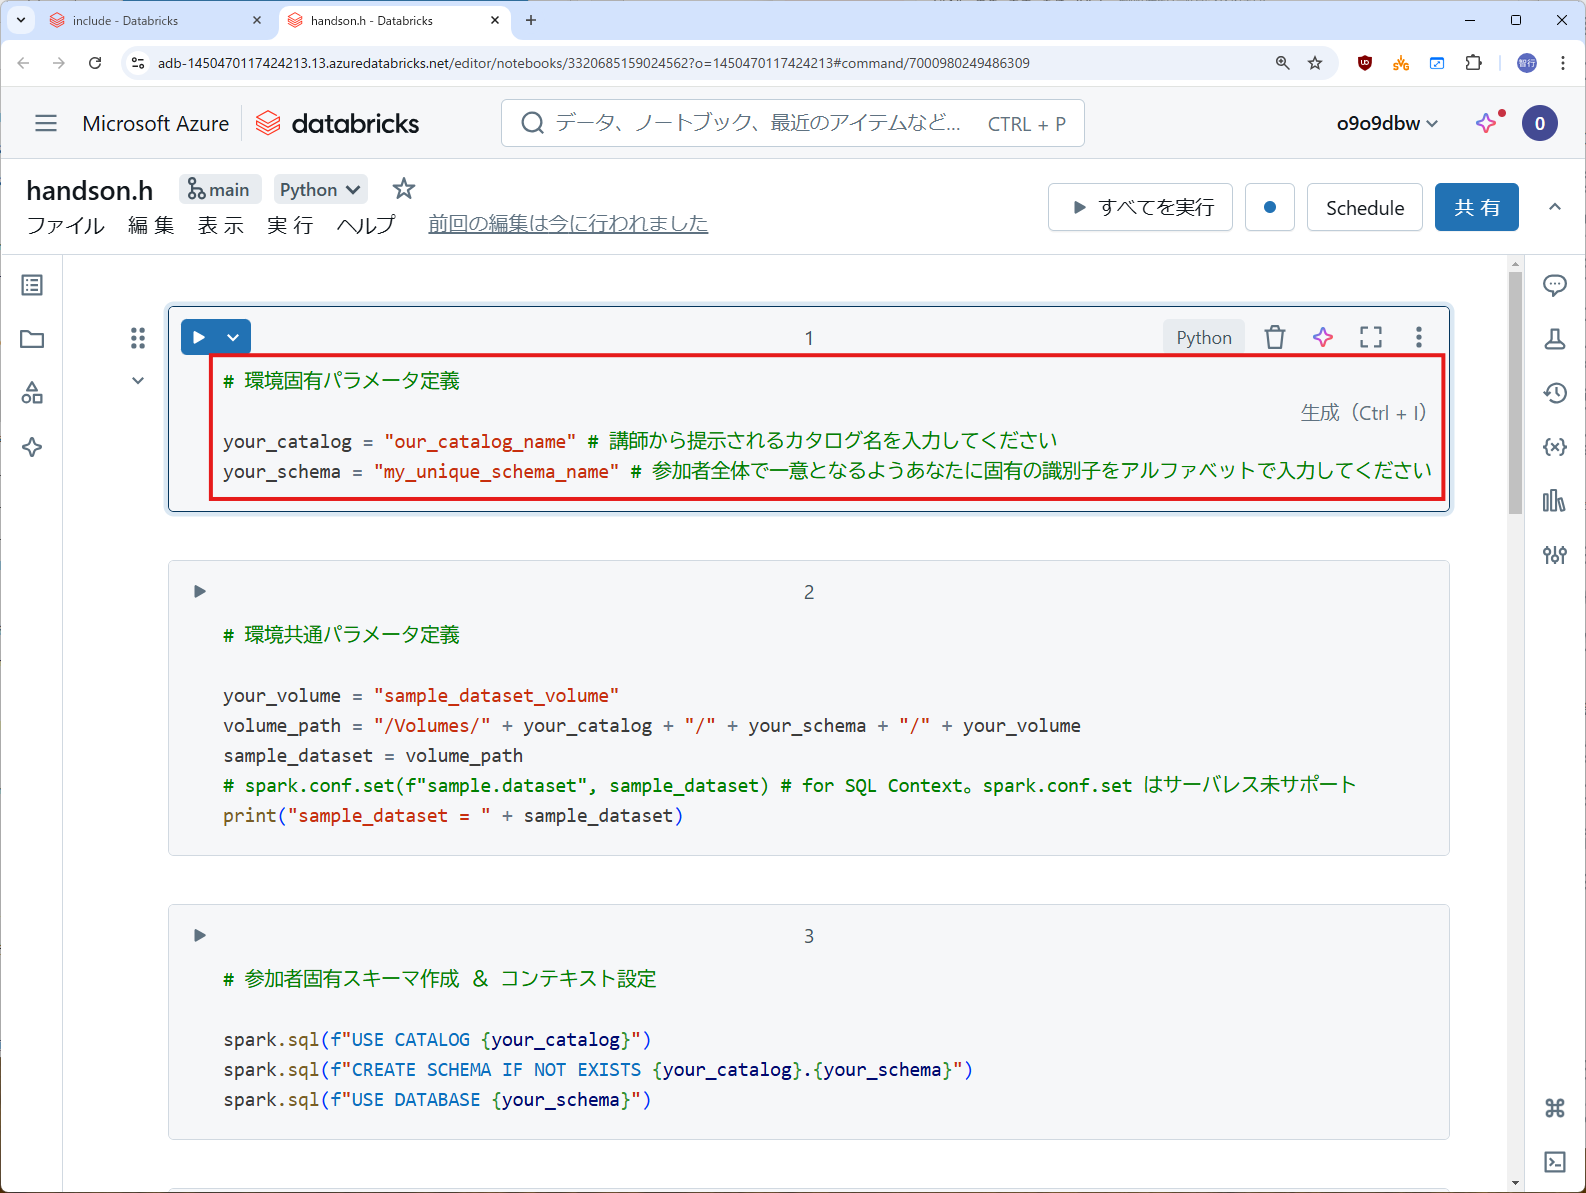
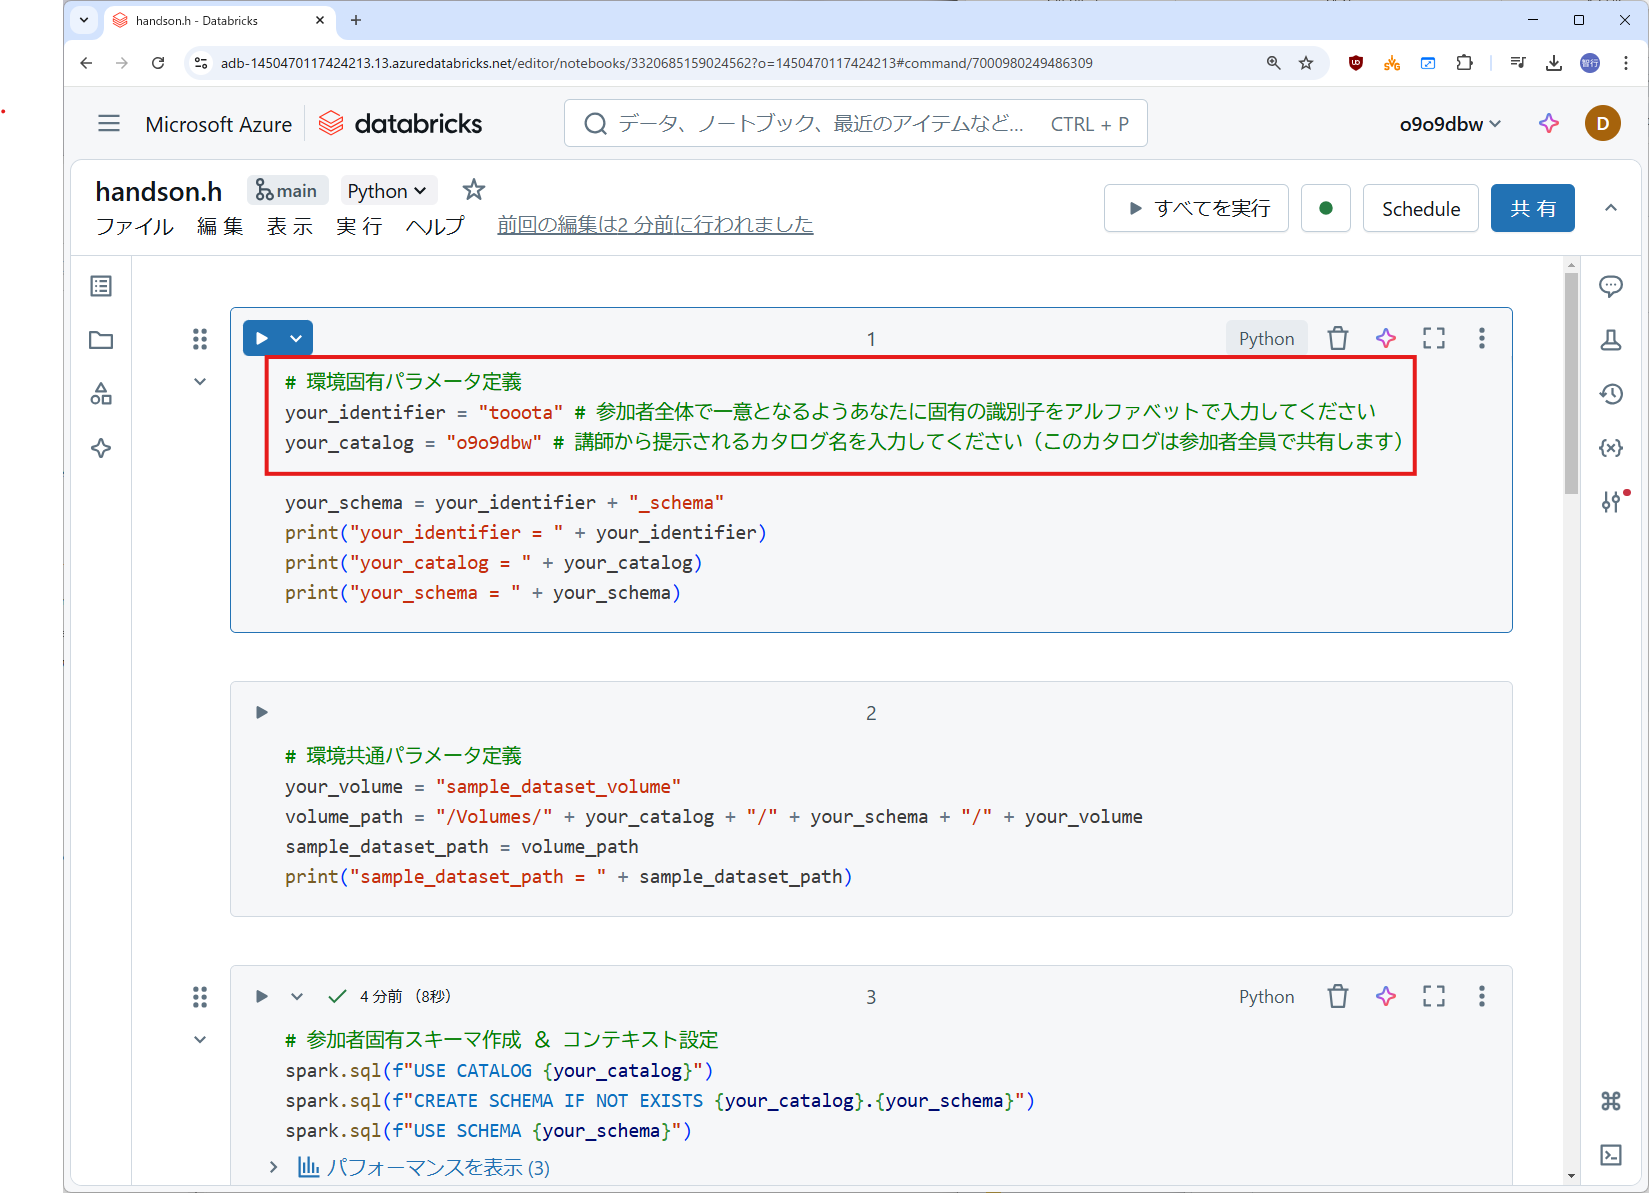
commit

diff --git a/include/handson.h.py b/include/handson.h.py
@@ -1,6 +1,6 @@
 # Databricks notebook source
 # 環境固有パラメータ定義
-your_identifier = "handson_tico_demo01" # 参加者全体で一意となるようあなたに固有の識別子をアルファベットで入力してください
+your_identifier = "tooota" # 参加者全体で一意となるようあなたに固有の識別子をアルファベットで入力してください
 your_catalog = "o9o9dbw" # 講師から提示されるカタログ名を入力してください（このカタログは参加者全員で共有します）
 
 your_schema = your_identifier + "_schema"
@@ -14,7 +14,6 @@ print("your_schema = " + your_schema)
 your_volume = "sample_dataset_volume"
 volume_path = "/Volumes/" + your_catalog + "/" + your_schema + "/" + your_volume
 sample_dataset_path = volume_path
-# spark.conf.set(f"sample.dataset", sample_dataset) # for SQL Context。spark.conf.set はサーバレス未サポート
 print("sample_dataset_path = " + sample_dataset_path)
 
 # COMMAND ----------
